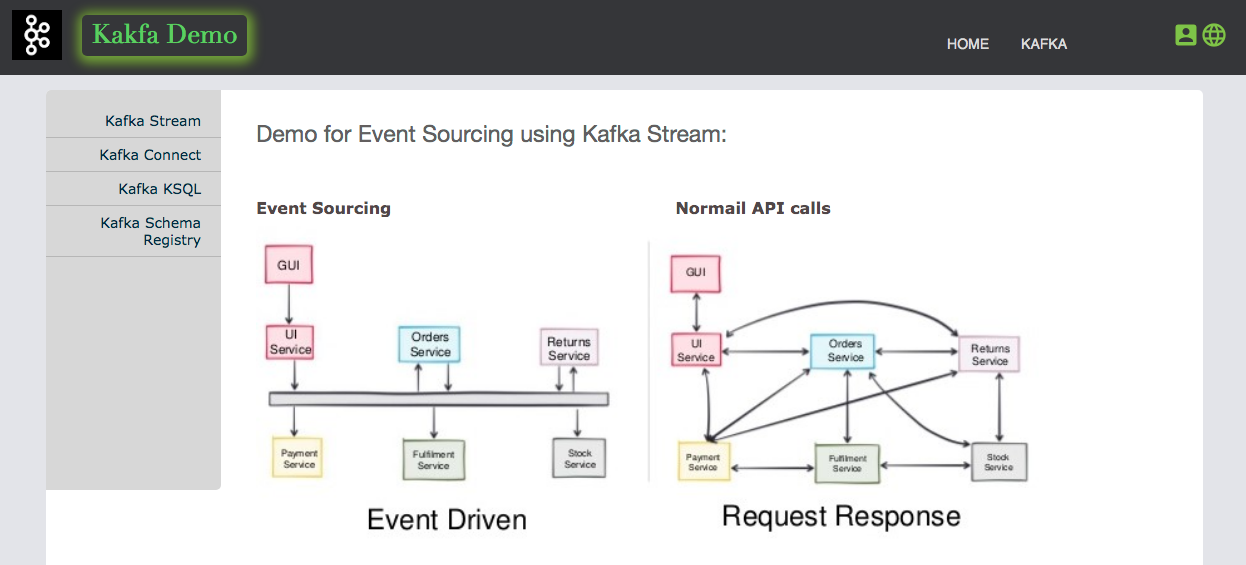
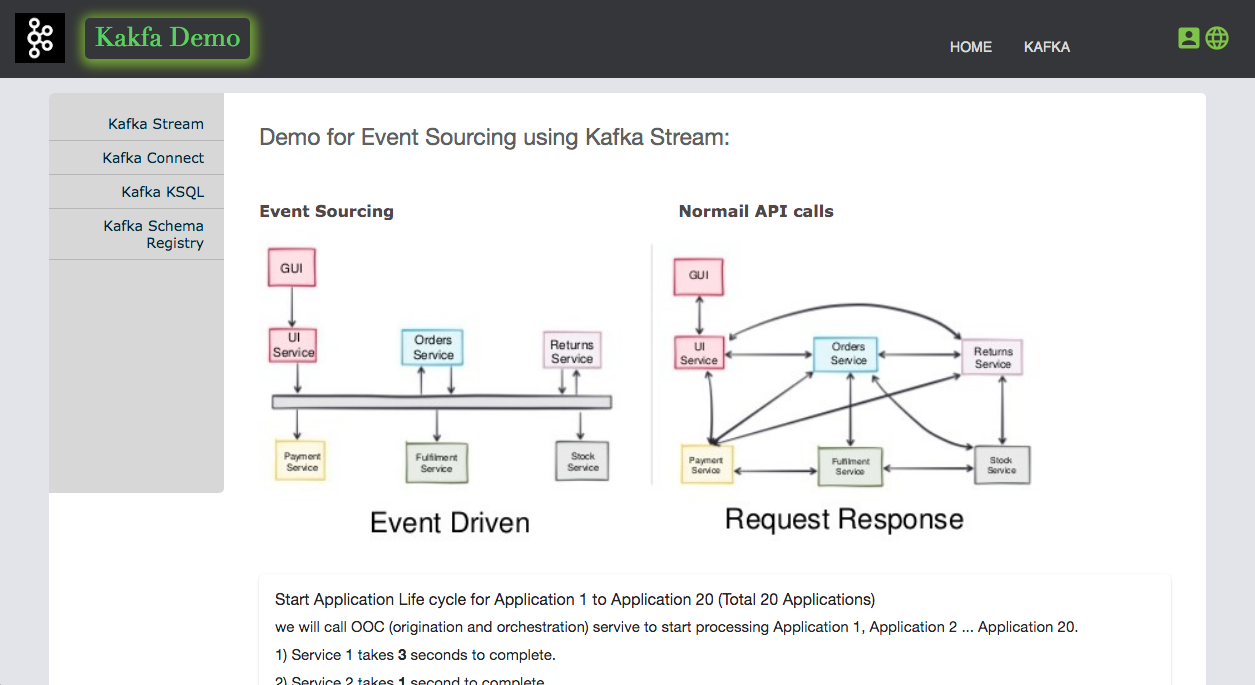
add new screen shots and fix content wording

diff --git a/web/angular7-client/src/app/kafka/kafka-stream/kafka-stream.component.html b/web/angular7-client/src/app/kafka/kafka-stream/kafka-stream.component.html
@@ -13,12 +13,12 @@
 		  <mat-card class="margin-top-20">
 			  <div class="row title">Start Application Life cycle for Application 1 to Application 20 (Total 20 Applications)</div>
         <div class="row description">we will call OOC (origination and orchestration) servive to start processing Application 1, Application 2 ... Application 20.</div>
-        <div class="row description">1) Buearu Service takes <b>3</b> seconds to complete. </div>
-				<div class="row description">2) TSYS Service takes <b>1</b> second to complete.</div>
-				<div class="row description">3) Ajudication Service takes <b>1</b> second to complete.</div>
+        <div class="row description">1) Service 1 takes <b>3</b> seconds to complete. </div>
+				<div class="row description">2) Service 2 takes <b>1</b> second to complete.</div>
+				<div class="row description">3) Service 3 takes <b>1</b> second to complete.</div>
 				<div class="row description">4) Error Service Time out is <b>5</b> seconds.</div>
-				
-				<div class="row description">5) Status Icon:</div>
+				<div class="row description">5) Service 3 will start only when both Service 1 & Service 2 complete <b>Successfully</b>.</div>
+				<div class="row description">6) Status Icon:</div>
 				<div>
 					<span class="margin-left-20"><i class="material-icons ingrogress" matTooltip="IN PROGRESS" >directions_run</i> - In Progress </span>
 					<span class="margin-left-20"><i class="material-icons success" matTooltip="COMPLETED" >check_circle</i> - Completed </span>
@@ -55,7 +55,7 @@
 					</ng-container>
 	
 					<ng-container matColumnDef="bureauStatus">
-						<mat-header-cell *matHeaderCellDef mat-sort-header>Bureau</mat-header-cell>
+						<mat-header-cell *matHeaderCellDef mat-sort-header>Service 1</mat-header-cell>
 						<mat-cell *matCellDef="let application">
 							<i class="material-icons ingrogress" matTooltip="IN PROGRESS" *ngIf="(application.bureauStatus == 'INPROGRESS')">directions_run</i>
 							<i class="material-icons success" matTooltip="COMPLETED" *ngIf="(application.bureauStatus == 'COMPLETED')">check_circle</i>
@@ -64,7 +64,7 @@
 					</ng-container>
 	
 					<ng-container matColumnDef="tsysStatus">
-						<mat-header-cell *matHeaderCellDef mat-sort-header>TSYS</mat-header-cell>
+						<mat-header-cell *matHeaderCellDef mat-sort-header>Service 2</mat-header-cell>
 						<mat-cell *matCellDef="let application">
 							<i class="material-icons ingrogress" matTooltip="IN PROGRESS" *ngIf="(application.tsysStatus == 'INPROGRESS')">directions_run</i>
 							<i class="material-icons success" matTooltip="COMPLETED" *ngIf="(application.tsysStatus == 'COMPLETED')">check_circle</i>
@@ -73,7 +73,7 @@
 					</ng-container>
 	
 					<ng-container matColumnDef="ajdcStatus">
-						<mat-header-cell *matHeaderCellDef mat-sort-header>Adjudication</mat-header-cell>
+						<mat-header-cell *matHeaderCellDef mat-sort-header>Service 3</mat-header-cell>
 						<mat-cell *matCellDef="let application">
 							<i class="material-icons ingrogress" matTooltip="IN PROGRESS" *ngIf="(application.ajdcStatus == 'INPROGRESS')">directions_run</i>
 							<i class="material-icons success" matTooltip="COMPLETED" *ngIf="(application.ajdcStatus == 'COMPLETED')">check_circle</i>
